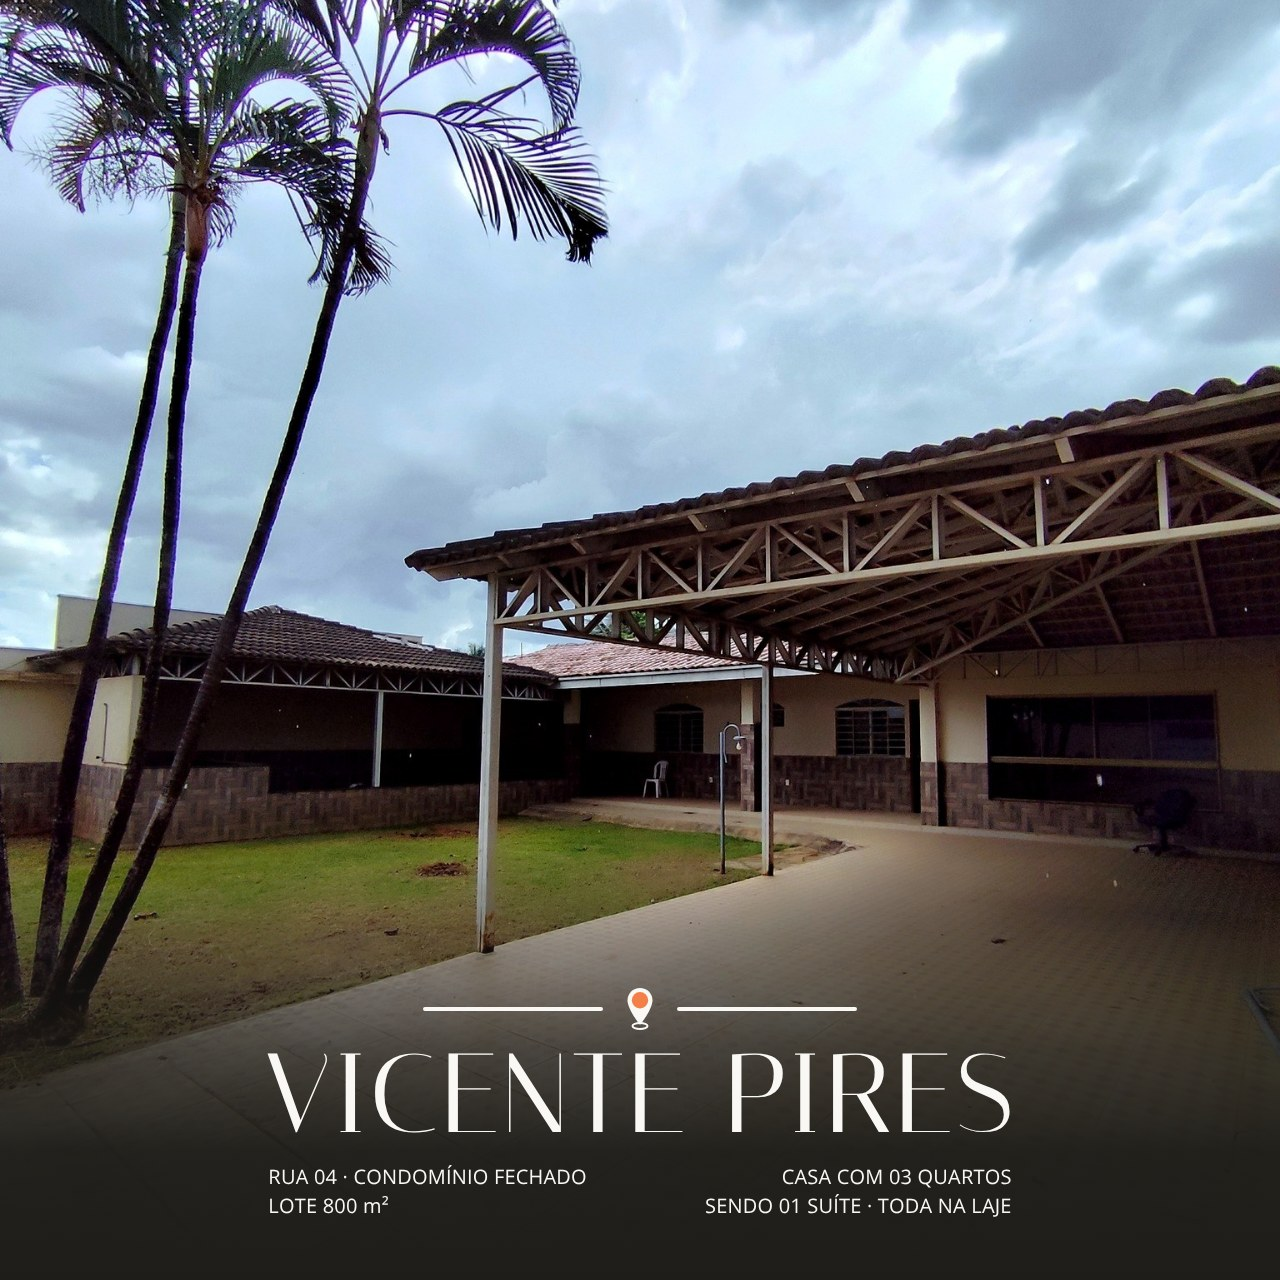
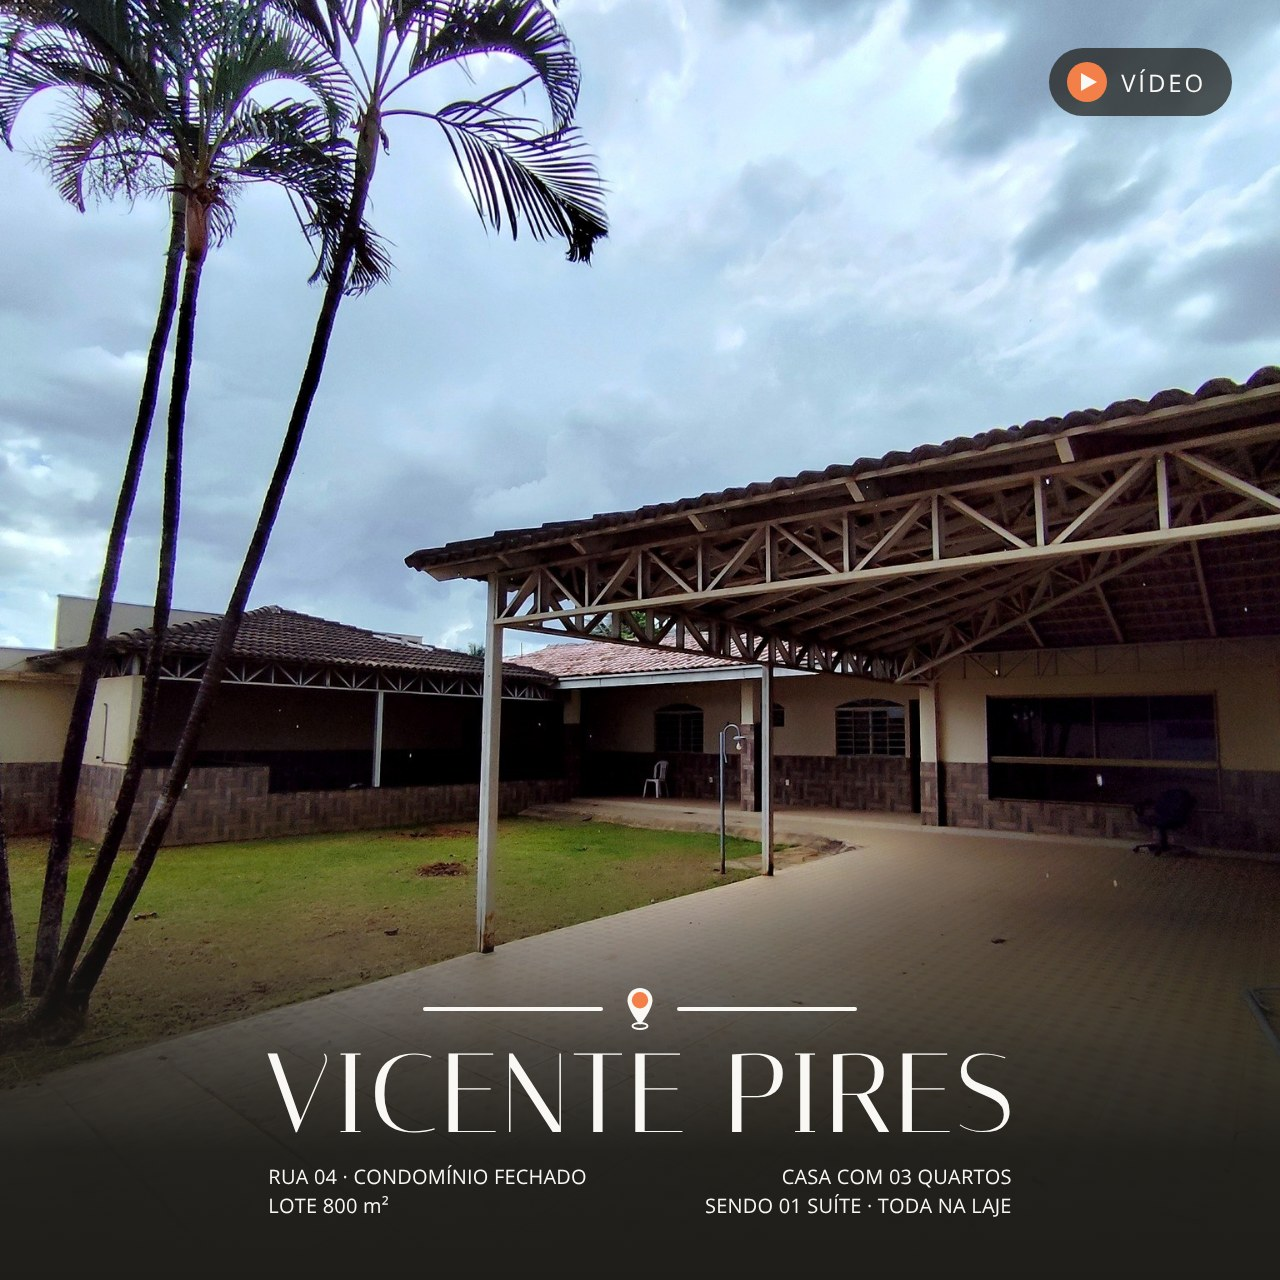
Adiciona vídeo do YouTube na casa VP-0103 (#26)
Claude-Session: https://claude.ai/code/session_01SeCGvGcZ6zTRGJGbEbhzt2

Changed region(s): [[0.8125, 0.0312, 0.9688, 0.0938]]

diff --git a/docs/imoveis/VP-0103.html b/docs/imoveis/VP-0103.html
@@ -4,12 +4,12 @@
 <meta charset="utf-8">
 <meta name="viewport" content="width=device-width, initial-scale=1">
 <title>Casa em lote de 800 m² à venda em Vicente Pires, DF · R$ 950 mil</title>
-<meta name="description" content="Casa à venda em Vicente Pires, DF: lote 800 m² · 3 quartos. R$ 950.000. Cessão de direitos. Código VP-0103, com fotos. Fale com o corretor Fabrício Borges.">
+<meta name="description" content="Casa à venda em Vicente Pires, DF: lote 800 m² · 3 quartos. R$ 950.000. Cessão de direitos. Código VP-0103, com fotos e vídeo. Fale com o corretor Fabrício Borges.">
 <link rel="canonical" href="https://fabricioborgesimob.com.br/imoveis/VP-0103.html">
 <meta property="og:type" content="website">
 <meta property="og:site_name" content="Fabrício Borges · Negócios Imobiliários">
 <meta property="og:title" content="Casa em lote de 800 m² à venda em Vicente Pires, DF · R$ 950 mil">
-<meta property="og:description" content="Casa à venda em Vicente Pires, DF: lote 800 m² · 3 quartos. R$ 950.000. Cessão de direitos. Código VP-0103, com fotos. Fale com o corretor Fabrício Borges.">
+<meta property="og:description" content="Casa à venda em Vicente Pires, DF: lote 800 m² · 3 quartos. R$ 950.000. Cessão de direitos. Código VP-0103, com fotos e vídeo. Fale com o corretor Fabrício Borges.">
 <meta property="og:url" content="https://fabricioborgesimob.com.br/imoveis/VP-0103.html">
 <meta property="og:locale" content="pt_BR">
 <meta property="og:image" content="https://fabricioborgesimob.com.br/fotos/VP-0103/capa.jpg">
@@ -68,7 +68,7 @@ if(a.href.indexOf('wa.me/5561995620101')>-1){gtag('event','contato_whatsapp',p);
 <p style="line-height:1.7;color:#33334A">Espaço de verdade em Vicente Pires. Na Rua 4, dentro de condomínio fechado, este lote de 800 m² tem uma casa com 3 quartos, sendo 1 suíte, toda na laje, e muito terreno livre em volta: amplo jardim com coqueiros e uma área coberta grande para receber a família. Além dos quartos, tem sala, cozinha, escritório, lavabo e WC social, mais 2 quartos despensa e 3 canis para quem tem cachorro. O espaço gourmet com churrasqueira já está pronto. O condomínio tem guarita, câmeras de segurança, iluminação pública em LED, rede de águas pluviais, ruas asfaltadas e calçadas largas, num ambiente bem tranquilo. Imóvel em cessão de direitos (não aceita financiamento bancário); o proprietário aceita proposta e estuda permuta.</p>
 <div class="tags"><span>Lote de 800 m² em condomínio fechado</span><span>3 quartos, sendo 1 suíte</span><span>Casa toda na laje</span><span>Sala, cozinha americana e escritório</span><span>Lavabo e WC social</span><span>2 quartos despensa</span><span>3 canis</span><span>Espaço gourmet coberto com churrasqueira</span><span>Amplo jardim com coqueiros</span><span>Condomínio com guarita e câmeras de segurança</span><span>Iluminação pública em LED, águas pluviais, asfalto e calçadas largas</span><span>Aceita proposta e estuda permuta</span></div>
 </section>
-<p><a href="https://www.youtube.com/@FabricioBorgesCorretorIm-sb5mb" rel="noopener" style="font-weight:600"><svg aria-hidden="true" width="18" height="18" viewBox="0 0 24 24" fill="none" stroke="currentColor" stroke-width="1.8"><rect x="2.5" y="5" width="19" height="14" rx="4"/><path d="M10 9.2v5.6l4.8-2.8z" fill="currentColor" stroke="none"/></svg> Veja os vídeos dos imóveis no meu canal do YouTube</a></p>
+<section style="display:flex;flex-direction:column;gap:12px"><h2>Vídeo do imóvel</h2><div class="video vertical"><iframe src="https://www.youtube-nocookie.com/embed/taarBw0WPbw" title="Vídeo do imóvel VP-0103" loading="lazy" allow="accelerometer; encrypted-media; gyroscope; picture-in-picture" allowfullscreen></iframe></div><p style="font-size:15px;color:var(--texto-2)"><a href="https://www.youtube.com/watch?v=taarBw0WPbw" rel="noopener">Assistir no YouTube</a></p><a href="https://www.youtube.com/@FabricioBorgesCorretorIm-sb5mb" rel="noopener" style="font-weight:600"><svg aria-hidden="true" width="18" height="18" viewBox="0 0 24 24" fill="none" stroke="currentColor" stroke-width="1.8"><rect x="2.5" y="5" width="19" height="14" rx="4"/><path d="M10 9.2v5.6l4.8-2.8z" fill="currentColor" stroke="none"/></svg> Ver mais vídeos no meu canal</a></section>
 <section class="doc-box doc-cessao">
 <h2 style="font-size:22px">Situação do documento: cessão de direitos</h2>
 <p style="line-height:1.6;color:#33334A">A venda deste imóvel é feita por contrato de cessão de direitos, sem escritura no momento. Normalmente o pagamento é à vista ou combinado com o vendedor. Antes da proposta eu levanto toda a documentação disponível com você.</p>

diff --git a/docs/regioes/vicente-pires.html b/docs/regioes/vicente-pires.html
@@ -76,7 +76,7 @@ if(a.href.indexOf('wa.me/5561995620101')>-1){gtag('event','contato_whatsapp',p);
 <select name="ordem" style="width:auto"><option value="recentes">Mais recentes</option><option value="menor">Menor preço</option><option value="maior">Maior preço</option><option value="area">Maior área</option></select></label>
 </div>
 <div class="grade" data-lista><a class="card" href="../imoveis/VP-0103.html" data-tipo="Casa" data-regiao="vicente-pires" data-preco="950000" data-quartos="3" data-doc="cessao" data-area="800" data-ordem="0">
-<div class="card-foto"><img src="../fotos/VP-0103/capa.jpg" alt="Casa com 3 quartos e escritório em lote de 800 m², condomínio fechado na Rua 4" loading="lazy" style="object-position:50% 100%"><span class="selo selo-cessao">Cessão de direitos</span></div>
+<div class="card-foto"><img src="../fotos/VP-0103/capa.jpg" alt="Casa com 3 quartos e escritório em lote de 800 m², condomínio fechado na Rua 4" loading="lazy" style="object-position:50% 100%"><span class="selo selo-cessao">Cessão de direitos</span><span class="selo selo-video"><svg aria-hidden="true" width="18" height="18" viewBox="0 0 24 24" fill="none" stroke="currentColor" stroke-width="1.8"><rect x="2.5" y="5" width="19" height="14" rx="4"/><path d="M10 9.2v5.6l4.8-2.8z" fill="currentColor" stroke="none"/></svg> Vídeo</span></div>
 <div class="card-corpo">
 <span class="preco">R$ 950.000</span>
 <span class="card-titulo">Casa com 3 quartos e escritório em lote de 800 m², condomínio fechado na Rua 4</span>

diff --git a/docs/imoveis.html b/docs/imoveis.html
@@ -74,7 +74,7 @@ if(a.href.indexOf('wa.me/5561995620101')>-1){gtag('event','contato_whatsapp',p);
 <select name="ordem" style="width:auto"><option value="recentes">Mais recentes</option><option value="menor">Menor preço</option><option value="maior">Maior preço</option><option value="area">Maior área</option></select></label>
 </div>
 <div class="grade" data-lista><a class="card" href="imoveis/VP-0103.html" data-tipo="Casa" data-regiao="vicente-pires" data-preco="950000" data-quartos="3" data-doc="cessao" data-area="800" data-ordem="0">
-<div class="card-foto"><img src="fotos/VP-0103/capa.jpg" alt="Casa com 3 quartos e escritório em lote de 800 m², condomínio fechado na Rua 4" loading="lazy" style="object-position:50% 100%"><span class="selo selo-cessao">Cessão de direitos</span></div>
+<div class="card-foto"><img src="fotos/VP-0103/capa.jpg" alt="Casa com 3 quartos e escritório em lote de 800 m², condomínio fechado na Rua 4" loading="lazy" style="object-position:50% 100%"><span class="selo selo-cessao">Cessão de direitos</span><span class="selo selo-video"><svg aria-hidden="true" width="18" height="18" viewBox="0 0 24 24" fill="none" stroke="currentColor" stroke-width="1.8"><rect x="2.5" y="5" width="19" height="14" rx="4"/><path d="M10 9.2v5.6l4.8-2.8z" fill="currentColor" stroke="none"/></svg> Vídeo</span></div>
 <div class="card-corpo">
 <span class="preco">R$ 950.000</span>
 <span class="card-titulo">Casa com 3 quartos e escritório em lote de 800 m², condomínio fechado na Rua 4</span>

diff --git a/docs/index.html b/docs/index.html
@@ -73,7 +73,7 @@ if(a.href.indexOf('wa.me/5561995620101')>-1){gtag('event','contato_whatsapp',p);
 <div class="wrap">
 <div class="secao-cabeca"><h2>Imóveis à venda no DF</h2><a href="imoveis.html" style="font-weight:700">Ver todos os imóveis</a></div>
 <div class="grade grade-home"><a class="card" href="imoveis/VP-0103.html" data-tipo="Casa" data-regiao="vicente-pires" data-preco="950000" data-quartos="3" data-doc="cessao" data-area="800" data-ordem="0">
-<div class="card-foto"><img src="fotos/VP-0103/capa.jpg" alt="Casa com 3 quartos e escritório em lote de 800 m², condomínio fechado na Rua 4" loading="lazy" style="object-position:50% 100%"><span class="selo selo-cessao">Cessão de direitos</span></div>
+<div class="card-foto"><img src="fotos/VP-0103/capa.jpg" alt="Casa com 3 quartos e escritório em lote de 800 m², condomínio fechado na Rua 4" loading="lazy" style="object-position:50% 100%"><span class="selo selo-cessao">Cessão de direitos</span><span class="selo selo-video"><svg aria-hidden="true" width="18" height="18" viewBox="0 0 24 24" fill="none" stroke="currentColor" stroke-width="1.8"><rect x="2.5" y="5" width="19" height="14" rx="4"/><path d="M10 9.2v5.6l4.8-2.8z" fill="currentColor" stroke="none"/></svg> Vídeo</span></div>
 <div class="card-corpo">
 <span class="preco">R$ 950.000</span>
 <span class="card-titulo">Casa com 3 quartos e escritório em lote de 800 m², condomínio fechado na Rua 4</span>
